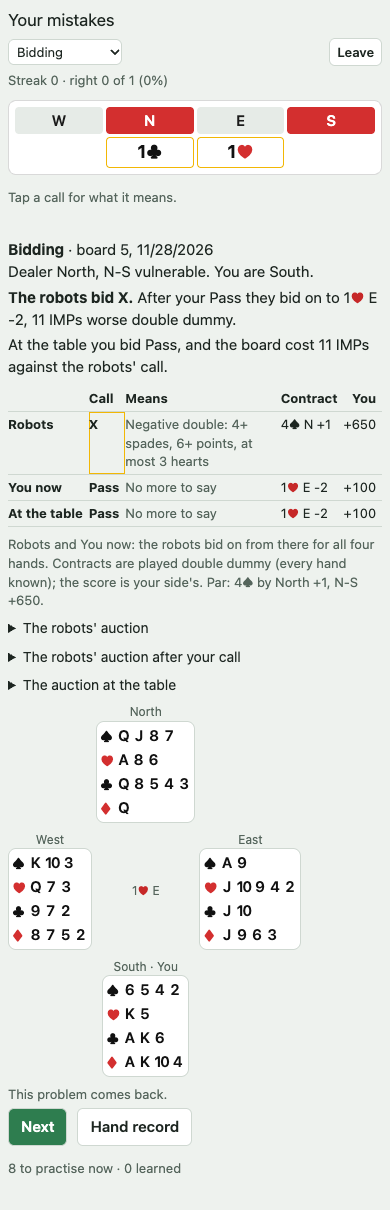
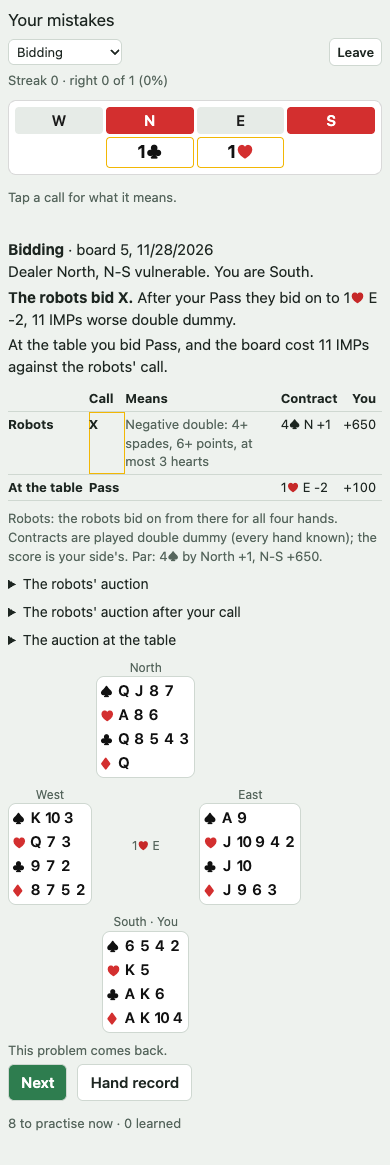
Bridge: Your mistakes bidding: the check runs while a play review runs, README section, empty meaning for a plain pass

diff --git a/bridge/js/min/drills.js b/bridge/js/min/drills.js
@@ -1,5 +1,5 @@
 // GENERATED by build.mjs from js/drills.js (comments and spacing removed). Edit js/drills.js, not this file.
-const DR={KEY:"bridge-dr",V:1,SCAN:200,MAX:400,GAP:[0,864e5,3*864e5,7*864e5],LEARNED:3,KINDS:[["all","All mistakes"],["decl","Declarer play"],["def","Defence"],["lead","Opening leads"],["bid","Bidding"]],BV:1,on:false,kind:"all",cur:null,pick:null,sol:null,solErr:false,anyway:false,scanRec:null,timer:0,w:null,url:null,idle:0,n:0,wait:new Map,noSolver:false,done:0};const drFlat=h=>{const f=[];h.tricks.forEach((tr,k)=>tr.cards.forEach((pc,j)=>f.push({...pc,trick:k,pos:j,leader:tr.leader})));return f};function drKindOf(r,pc,i){if(r.role==="declarer")return sameSide(pc.seat,r.seat)?"decl":null;if(r.role==="defender")return pc.seat===r.seat?i===0?"lead":"def":null;return null}function drExtract(r,en){const out=[];drFlat(r.h).forEach((pc,i)=>{const x=en.res[i];if(!x||!(x.loss>0))return;const kind=drKindOf(r,pc,i);if(!kind)return;out.push({k:r.id+"#"+i,rec:r.id,i,kind,card:pc.card,loss:x.loss,best:(x.best||[]).slice(),date:r.date,box:0,due:0,tries:0,right:0})});return out}function drPosition(h,i){const flat=drFlat(h),pc=flat[i],played=new Set(flat.slice(0,i).map(x=>x.card));const hands={};SEATS.forEach(s=>{hands[s]=h.hands[s].filter(c=>!played.has(c))});const trick=flat.slice(i-pc.pos,i);const led=trick.length?suitOf(trick[0].card):null,hand=hands[pc.seat];const follow=led?hand.filter(c=>suitOf(c)===led):[];const legal=follow.length?follow:hand.slice();let decl=0,def=0;h.tricks.slice(0,pc.trick).forEach(tr=>{if(tr.cards.length===4)sameSide(trickWinner(tr,h.contract.strain),h.contract.declarer)?decl++:def++});return{pc,hands,trick,legal,decl,def,mover:pc.seat,leader:pc.leader,trickNo:pc.trick}}function drGrade(it,right,now){it.tries++;if(right){it.right++;it.box=Math.min(DR.LEARNED,it.box+1);it.due=now+(DR.GAP[it.box]||0)}else{it.box=0;it.due=now}return it}const drLearned=it=>it.box>=DR.LEARNED;const drWeight=it=>it.kind==="bid"?it.loss/3:it.loss;function drQueue(items,kind,now,anyway){return items.filter(it=>!drLearned(it)&&(kind==="all"||it.kind===kind)&&(anyway||it.due<=now)).sort((a,b)=>a.box-b.box||(b.due<=now)-(a.due<=now)||drWeight(b)-drWeight(a)||b.date-a.date||a.i-b.i)}function drMerge(items,found,max){const have=new Set(items.map(it=>it.k));const out=items.concat(found.filter(it=>!have.has(it.k)));out.sort((a,b)=>b.date-a.date||a.i-b.i);return out.slice(0,max)}function drLoad(){const v=typeof Local!=="undefined"&&Local.get(DR.KEY)||{};const st={};for(const k of["n","good","streak","bestStreak"])st[k]=Number.isFinite(+(v.st||{})[k])?+v.st[k]:0;return{v:DR.V,st,items:Array.isArray(v.items)?v.items.filter(it=>it&&typeof it.k==="string"&&typeof it.rec==="string"&&Number.isInteger(it.i)):[],scanned:v.scanned&&typeof v.scanned==="object"?v.scanned:{},bscanned:v.bscanned&&typeof v.bscanned==="object"?v.bscanned:{}}}let drState=null;const drS=()=>drState||(drState=drLoad());function drSave(){const s=drS();if(typeof Stats!=="undefined"&&Stats.list.length){const ids=new Set(Stats.list.map(r=>r.id));s.items=s.items.filter(it=>ids.has(it.rec));for(const id of Object.keys(s.scanned))if(!ids.has(id))delete s.scanned[id];for(const id of Object.keys(s.bscanned))if(!ids.has(id))delete s.bscanned[id]}Local.set(DR.KEY,s)}const drRec=id=>typeof Stats!=="undefined"?Stats.list.find(r=>r.id===id):null;const drNeedsCheck=r=>(r.role==="declarer"||r.role==="defender")&&r.h&&r.h.contract&&r.h.tricks&&r.h.tricks.length>0;function drToScan(){const s=drS(),out=[];const list=Stats.list;for(let i=list.length-1;i>=0&&list.length-i<=DR.SCAN;i--){const r=list[i];if(drNeedsCheck(r)&&s.scanned[r.id]!==DR.V)out.push(r)}return out}function drStep(){if(!DR.on||document.hidden||typeof playReview!=="function")return;const s=drS();let changed=false;if(DR.scanRec){const r=DR.scanRec,en=playReview(r.h);if(!en){DR.noSolver=true;DR.scanRec=null;drRenderProgress();return}if(!en.done)return;s.items=drMerge(s.items,drExtract(r,en),DR.MAX);s.scanned[r.id]=DR.V;DR.scanRec=null;DR.done++;changed=true;if(typeof Leaks!=="undefined"&&Leaks.absorb&&Leaks.absorb(r))Stats.put(r)}if(!DR.scanRec){const next=drToScan()[0];if(next){DR.scanRec=next;if(!playReview(next.h)){DR.noSolver=true;DR.scanRec=null}}}if(drBidStep())changed=true;if(changed){drSave();if(!DR.cur)drNext(!document.activeElement||document.activeElement===document.body||drEl("drills").contains(document.activeElement));else drRenderProgress()}}function drWorker(){if(DR.w)return DR.w;const u=p=>JSON.stringify(new URL("js/"+p,location.href).href);const src=`importScripts(${u("wasm/compiled.js")}, ${u("engine.js")}, ${u("ddplay.js")});
+const DR={KEY:"bridge-dr",V:1,SCAN:200,MAX:400,GAP:[0,864e5,3*864e5,7*864e5],LEARNED:3,KINDS:[["all","All mistakes"],["decl","Declarer play"],["def","Defence"],["lead","Opening leads"],["bid","Bidding"]],BV:1,on:false,kind:"all",cur:null,pick:null,sol:null,solErr:false,anyway:false,scanRec:null,timer:0,w:null,url:null,idle:0,n:0,wait:new Map,noSolver:false,done:0};const drFlat=h=>{const f=[];h.tricks.forEach((tr,k)=>tr.cards.forEach((pc,j)=>f.push({...pc,trick:k,pos:j,leader:tr.leader})));return f};function drKindOf(r,pc,i){if(r.role==="declarer")return sameSide(pc.seat,r.seat)?"decl":null;if(r.role==="defender")return pc.seat===r.seat?i===0?"lead":"def":null;return null}function drExtract(r,en){const out=[];drFlat(r.h).forEach((pc,i)=>{const x=en.res[i];if(!x||!(x.loss>0))return;const kind=drKindOf(r,pc,i);if(!kind)return;out.push({k:r.id+"#"+i,rec:r.id,i,kind,card:pc.card,loss:x.loss,best:(x.best||[]).slice(),date:r.date,box:0,due:0,tries:0,right:0})});return out}function drPosition(h,i){const flat=drFlat(h),pc=flat[i],played=new Set(flat.slice(0,i).map(x=>x.card));const hands={};SEATS.forEach(s=>{hands[s]=h.hands[s].filter(c=>!played.has(c))});const trick=flat.slice(i-pc.pos,i);const led=trick.length?suitOf(trick[0].card):null,hand=hands[pc.seat];const follow=led?hand.filter(c=>suitOf(c)===led):[];const legal=follow.length?follow:hand.slice();let decl=0,def=0;h.tricks.slice(0,pc.trick).forEach(tr=>{if(tr.cards.length===4)sameSide(trickWinner(tr,h.contract.strain),h.contract.declarer)?decl++:def++});return{pc,hands,trick,legal,decl,def,mover:pc.seat,leader:pc.leader,trickNo:pc.trick}}function drGrade(it,right,now){it.tries++;if(right){it.right++;it.box=Math.min(DR.LEARNED,it.box+1);it.due=now+(DR.GAP[it.box]||0)}else{it.box=0;it.due=now}return it}const drLearned=it=>it.box>=DR.LEARNED;const drWeight=it=>it.kind==="bid"?it.loss/3:it.loss;function drQueue(items,kind,now,anyway){return items.filter(it=>!drLearned(it)&&(kind==="all"||it.kind===kind)&&(anyway||it.due<=now)).sort((a,b)=>a.box-b.box||(b.due<=now)-(a.due<=now)||drWeight(b)-drWeight(a)||b.date-a.date||a.i-b.i)}function drMerge(items,found,max){const have=new Set(items.map(it=>it.k));const out=items.concat(found.filter(it=>!have.has(it.k)));out.sort((a,b)=>b.date-a.date||a.i-b.i);return out.slice(0,max)}function drLoad(){const v=typeof Local!=="undefined"&&Local.get(DR.KEY)||{};const st={};for(const k of["n","good","streak","bestStreak"])st[k]=Number.isFinite(+(v.st||{})[k])?+v.st[k]:0;return{v:DR.V,st,items:Array.isArray(v.items)?v.items.filter(it=>it&&typeof it.k==="string"&&typeof it.rec==="string"&&Number.isInteger(it.i)):[],scanned:v.scanned&&typeof v.scanned==="object"?v.scanned:{},bscanned:v.bscanned&&typeof v.bscanned==="object"?v.bscanned:{}}}let drState=null;const drS=()=>drState||(drState=drLoad());function drSave(){const s=drS();if(typeof Stats!=="undefined"&&Stats.list.length){const ids=new Set(Stats.list.map(r=>r.id));s.items=s.items.filter(it=>ids.has(it.rec));for(const id of Object.keys(s.scanned))if(!ids.has(id))delete s.scanned[id];for(const id of Object.keys(s.bscanned))if(!ids.has(id))delete s.bscanned[id]}Local.set(DR.KEY,s)}const drRec=id=>typeof Stats!=="undefined"?Stats.list.find(r=>r.id===id):null;const drNeedsCheck=r=>(r.role==="declarer"||r.role==="defender")&&r.h&&r.h.contract&&r.h.tricks&&r.h.tricks.length>0;function drToScan(){const s=drS(),out=[];const list=Stats.list;for(let i=list.length-1;i>=0&&list.length-i<=DR.SCAN;i--){const r=list[i];if(drNeedsCheck(r)&&s.scanned[r.id]!==DR.V)out.push(r)}return out}function drStep(){if(!DR.on||document.hidden)return;if(drBidStep())drFound();if(typeof playReview!=="function")return;const s=drS();let changed=false;if(DR.scanRec){const r=DR.scanRec,en=playReview(r.h);if(!en){DR.noSolver=true;DR.scanRec=null;drRenderProgress();return}if(!en.done)return;s.items=drMerge(s.items,drExtract(r,en),DR.MAX);s.scanned[r.id]=DR.V;DR.scanRec=null;DR.done++;changed=true;if(typeof Leaks!=="undefined"&&Leaks.absorb&&Leaks.absorb(r))Stats.put(r)}if(!DR.scanRec){const next=drToScan()[0];if(next){DR.scanRec=next;if(!playReview(next.h)){DR.noSolver=true;DR.scanRec=null}}}if(changed)drFound()}function drFound(){drSave();if(!DR.cur)drNext(!document.activeElement||document.activeElement===document.body||drEl("drills").contains(document.activeElement));else drRenderProgress()}function drWorker(){if(DR.w)return DR.w;const u=p=>JSON.stringify(new URL("js/"+p,location.href).href);const src=`importScripts(${u("wasm/compiled.js")}, ${u("engine.js")}, ${u("ddplay.js")});
 let mod = null, solve = null;
 self.onmessage = async e => {
   const m = e.data;
@@ -19,7 +19,7 @@ self.onmessage = async e => {
     <p class="note">Tricks for ${side} in the whole board, double dummy (every hand known), after each card. ${right?`Learned after ${DR.LEARNED} right in a row.`:"This problem comes back."}</p>${btns}</div>`}function drChoose(card){const it=DR.cur;if(!it||DR.pick)return;const r=drRec(it.rec),pos=drPosition(r.h,it.i);if(!pos.legal.includes(card))return;DR.pick=card;const grade=()=>{const right=DR.sol?DR.sol[card]===Math.max(...pos.legal.filter(c=>c in DR.sol).map(c=>DR.sol[c])):it.best.includes(card);const s=drS(),live=s.items.find(x=>x.k===it.k)||it;drGrade(live,right,Date.now());s.st.n++;if(right){s.st.good++;s.st.streak++;s.st.bestStreak=Math.max(s.st.bestStreak,s.st.streak)}else s.st.streak=0;drSave()};if(DR.sol||DR.solErr){grade();drRender();drFocus();return}drRender();const wait=setInterval(()=>{if(DR.cur!==it||!DR.on){clearInterval(wait);return}if(DR.sol||DR.solErr){clearInterval(wait);grade();drRender();drFocus()}},50)}function drFocus(){const sc=drEl("drills");if(!sc||!DR.on)return;const b=sc.querySelector(DR.pick?"[data-drnext]":DR.cur?DR.cur.kind==="bid"?"#drTable .bbox button:not(:disabled)":"#drTable .rk.play":"#drInfo button")||sc.querySelector("#drKind");if(b)b.focus({preventScroll:true})}function drPlayOn(){const it=DR.cur,r=it&&drRec(it.rec);if(!r)return;leaveDrills(false);PlayFrom.start(r.h,it.i,{kind:"hist",id:r.id,seat:r.seat})}function drClick(e){const b=e.target.closest("button, [data-alert]");if(!b)return;const d=b.dataset;if(b.id==="drLeave")leaveDrills();else if(d.play)drChoose(d.play);else if(d.drlevel){DR.level=+d.drlevel;drBidBox();const f=drEl("drTable").querySelector(".bbox .st button:not(:disabled)");if(f)f.focus({preventScroll:true})}else if(d.drcall)drBidChoose(d.drcall);else if(d.drnext)drNext(true);else if(d.drany){DR.anyway=true;drNext(true)}else if(d.drplay)drPlayOn();else if(d.drrec){const it=DR.cur;if(it)Stats.record(it.rec)}else if(d.alert){if(drEl("explainPop"))hideExplain();else showExplain(b,d.alert)}else return;e.stopPropagation()}const DR_DDS=["N","E","S","W"],DR_DDST=["N","S","H","D","C"];const drDDPack=t=>DR_DDS.map(d=>DR_DDST.map(st=>(t[d][st]|0).toString(16)).join("")).join("");const drDDUnpack=p=>{const t={};DR_DDS.forEach((d,i)=>{t[d]={};DR_DDST.forEach((st,j)=>{t[d][st]=parseInt(p[i*5+j],16)})});return t};const drDDScore=(c,dd,vul)=>c?scoreNS(c,dd[c.declarer][c.strain],vul):0;const drSign=seat=>seat==="N"||seat==="S"?1:-1;const drBidNeedsCheck=r=>!!(r&&r.h&&Array.isArray(r.h.auction)&&r.h.hands&&r.h.hands[r.seat]&&r.h.hands[r.seat].length===13&&auctionOver(r.h.auction)&&r.h.auction.some(a=>a.by===r.seat));function drRobotsOn(h,auction){const au=auction.slice();while(!auctionOver(au)&&au.length<80){const by=auctionTurn(h.dealer,au),r=botCall(h.hands[by],by,h.dealer,au,h.vul);au.push(r.alert?{call:r.call,by,alert:r.alert}:{call:r.call,by})}return au}function drBidJudge(h,i,call,dd,alert){const by=h.auction[i].by,au=drRobotsOn(h,h.auction.slice(0,i).concat([alert?{call,by,alert}:{call,by}]));const c=finalContract(au);return{auction:au,contract:c,ns:drDDScore(c,dd,h.vul)}}function drBidExtract(r,dd){const h=r.h,out=[],sg=drSign(r.seat);if(!drBidNeedsCheck(r))return out;const table=drDDScore(finalContract(h.auction),dd,h.vul);h.auction.forEach((a,i)=>{if(a.by!==r.seat)return;const rb=botCall(h.hands[r.seat],r.seat,h.dealer,h.auction.slice(0,i),h.vul);if(rb.call===a.call)return;const rob=drBidJudge(h,i,rb.call,dd,rb.alert);const loss=toImps(sg*(rob.ns-table));if(loss<=0)return;if(toImps(sg*(rob.ns-drBidJudge(h,i,a.call,dd).ns))<=0)return;out.push({k:r.id+"#b"+i,rec:r.id,i,kind:"bid",card:a.call,rcall:rb.call,loss,dd:drDDPack(dd),date:r.date,box:0,due:0,tries:0,right:0})});return out}function drBidToScan(){if(typeof Stats==="undefined")return[];const s=drS(),list=Stats.list,out=[];for(let i=list.length-1;i>=0&&list.length-i<=DR.SCAN;i--){const r=list[i];if(s.bscanned[r.id]!==DR.BV&&drBidNeedsCheck(r))out.push(r)}return out}function drBidStep(){if(typeof requestDD!=="function"||typeof botCall!=="function"||DD.failed)return false;const s=drS(),t0=Date.now();let changed=false,asked=0;for(const r of drBidToScan()){const en=ddEntry(r.h.hands);if(en&&en.done){s.items=drMerge(s.items,drBidExtract(r,en.table),DR.MAX);s.bscanned[r.id]=DR.BV;changed=true;if(Date.now()-t0>40)break}else if(asked++<2)requestDD(r.h.hands,false);else break}return changed}function drBidRender(it,quiet){const info=drEl("drInfo"),tab=drEl("drTable"),box=drEl("drResult"),auc=drEl("drAuction");const r=drRec(it.rec),h=r.h,you=r.seat,before=h.auction.slice(0,it.i),d=new Date(r.date);info.innerHTML=`<p class="dr-head"><b>Bidding</b> · board ${esc(h.board)}, ${esc(d.toLocaleDateString())}${r.mode!=="practice"?` (${esc(r.mode)})`:""}<br>
     Dealer ${SEAT_NAME[h.dealer]}, ${vulText(h.vul)}. You are ${SEAT_NAME[you]}.${DR.pick?"":" <b>What do you bid?</b>"}</p>`;tab.innerHTML=DR.pick?"":`<div class="bp-hand">${bpHandHTML(h.hands[you])}</div><div class="dr-bbox"></div>`;if(!DR.pick)drBidBox();const view={seats:Object.fromEntries(SEATS.map(s=>[s,{kind:"robot"}])),auction:before,phase:DR.pick?"done":"auction"};auc.innerHTML=`<div class="dr-auc">${auctionGridHTML(view,before,h.dealer,h.vul,you)}</div><p class="note">Tap a call for what it means.</p>`;box.innerHTML=DR.pick?drBidResultHTML(it,r):"";drRenderScore();if(!quiet)drRenderProgress()}function drBidBox(){const it=DR.cur,el=drEl("drTable")&&drEl("drTable").querySelector(".dr-bbox");if(!it||!el)return;const h=drRec(it.rec).h,legal=legalCalls(h.dealer,h.auction.slice(0,it.i)),lv=DR.level;const minLevel=[1,2,3,4,5,6,7].find(l=>STRAINS.some(s=>legal.includes(l+s)));el.innerHTML=`<div class="bbox"><div class="lv">${[1,2,3,4,5,6,7].map(l=>`<button class="bcard ${lv===l?"sel":""}" data-drlevel="${l}" ${!minLevel||l<minLevel?"disabled":""}>${l}</button>`).join("")}</div>
     <div class="st">${STRAINS.map(s=>`<button class="bcard ${isRed(s)?"red":""} s-${s}" data-drcall="${lv?lv+s:""}" aria-label="${lv?lv+" ":""}${STRAIN_WORD[s]}" ${lv&&legal.includes(lv+s)?"":"disabled"}>${SYM[s]}</button>`).join("")}</div>
-    <div class="sp"><button class="bcard pass" data-drcall="P">Pass</button><button class="bcard dbl" data-drcall="X" aria-label="Double" ${legal.includes("X")?"":"disabled"}>X</button><button class="bcard rdbl" data-drcall="XX" aria-label="Redouble" ${legal.includes("XX")?"":"disabled"}>XX</button></div></div>`}function drMeans(h,i,call,alert){const by=h.auction[i].by;return describeCall(h.auction.slice(0,i).concat([alert?{call,by,alert}:{call,by}]),i,h.vul)||(call==="P"?"No more to say":"")}function drBidChoose(call){const it=DR.cur;if(!it||it.kind!=="bid"||DR.pick)return;const r=drRec(it.rec),h=r.h,i=it.i;if(!legalCalls(h.dealer,h.auction.slice(0,i)).includes(call))return;const dd=drDDUnpack(it.dd),rb=botCall(h.hands[r.seat],r.seat,h.dealer,h.auction.slice(0,i),h.vul);const ralert=rb.call===it.rcall?rb.alert:void 0;const rob=drBidJudge(h,i,it.rcall,dd,ralert),mine=call===it.rcall?rob:drBidJudge(h,i,call,dd);const diff=toImps(drSign(r.seat)*(rob.ns-mine.ns));const right=call===it.rcall||diff<=0;DR.pick=call;DR.level=null;DR.bres={rob,mine,ralert,diff,right,dd};const s=drS(),live=s.items.find(x=>x.k===it.k)||it;drGrade(live,right,Date.now());s.st.n++;if(right){s.st.good++;s.st.streak++;s.st.bestStreak=Math.max(s.st.bestStreak,s.st.streak)}else s.st.streak=0;drSave();drRender();drFocus()}function drBidResultHTML(it,r){const h=r.h,b=DR.bres,sg=drSign(r.seat),pick=DR.pick,dd=b.dd,i=it.i;const C=cl=>typeof bpCallHTML==="function"?bpCallHTML(cl):callText(cl);const imps=v=>`${v} IMP${v===1?"":"s"}`,sc=v=>(v>0?"+":"")+v;const res=c=>c?`${contractHTML(c,true)} ${resultText(c,dd[c.declarer][c.strain])}`:"Passed out";const tableC=finalContract(h.auction),tableNS=drDDScore(tableC,dd,h.vul);const head=b.right?`<p class="dr-ok"><b>Right.</b> ${pick===it.rcall?`The robots bid ${C(it.rcall)} too.`:`The robots bid ${C(it.rcall)}; with yours they reach a contract as good.`}</p>`:`<p class="dr-bad"><b>The robots bid ${C(it.rcall)}.</b> After your ${C(pick)} they bid on to ${res(b.mine.contract)}, ${imps(b.diff)} worse double dummy.</p>`;const row=(who,cl,means,c,ns,cls)=>`<tr class="${cls||""}"><td>${who}</td><td>${C(cl)}</td><td class="note">${redSym(esc(means||""))}</td><td>${res(c)}</td><td class="num">${sc(sg*ns)}</td></tr>`;const rows=[row("Robots",it.rcall,drMeans(h,i,it.rcall,b.ralert),b.rob.contract,b.rob.ns,"bp-diff")];const same=(x,y)=>(x&&x.level)===(y&&y.level)&&(x&&x.strain)===(y&&y.strain)&&(x&&x.declarer)===(y&&y.declarer)&&(x&&x.doubled)===(y&&y.doubled);if(pick!==it.rcall&&!(pick===it.card&&same(b.mine.contract,tableC)))rows.push(row("You now",pick,drMeans(h,i,pick),b.mine.contract,b.mine.ns));rows.push(row("At the table",it.card,drMeans(h,i,it.card),tableC,tableNS));const par=typeof parScore==="function"?parScore(dd,h.vul):null,o=h.other;const hand=s=>`<div><div class="lbl">${SEAT_NAME[s]}${s===r.seat?" · You":""}</div>${rowsHTML(h.hands[s],[],s)}</div>`;const grid=(au,label)=>{const v={seats:Object.fromEntries(SEATS.map(s=>[s,{kind:"robot"}])),auction:[],phase:"done"};return`<details class="dr-tricks"><summary>${label}</summary><div class="dr-auc">${auctionGridHTML(v,au.slice(),h.dealer,h.vul,r.seat)}</div></details>`};return`<div class="bp-res">${head}
+    <div class="sp"><button class="bcard pass" data-drcall="P">Pass</button><button class="bcard dbl" data-drcall="X" aria-label="Double" ${legal.includes("X")?"":"disabled"}>X</button><button class="bcard rdbl" data-drcall="XX" aria-label="Redouble" ${legal.includes("XX")?"":"disabled"}>XX</button></div></div>`}function drMeans(h,i,call,alert){const by=h.auction[i].by;return describeCall(h.auction.slice(0,i).concat([alert?{call,by,alert}:{call,by}]),i,h.vul)||""}function drBidChoose(call){const it=DR.cur;if(!it||it.kind!=="bid"||DR.pick)return;const r=drRec(it.rec),h=r.h,i=it.i;if(!legalCalls(h.dealer,h.auction.slice(0,i)).includes(call))return;const dd=drDDUnpack(it.dd),rb=botCall(h.hands[r.seat],r.seat,h.dealer,h.auction.slice(0,i),h.vul);const ralert=rb.call===it.rcall?rb.alert:void 0;const rob=drBidJudge(h,i,it.rcall,dd,ralert),mine=call===it.rcall?rob:drBidJudge(h,i,call,dd);const diff=toImps(drSign(r.seat)*(rob.ns-mine.ns));const right=call===it.rcall||diff<=0;DR.pick=call;DR.level=null;DR.bres={rob,mine,ralert,diff,right,dd};const s=drS(),live=s.items.find(x=>x.k===it.k)||it;drGrade(live,right,Date.now());s.st.n++;if(right){s.st.good++;s.st.streak++;s.st.bestStreak=Math.max(s.st.bestStreak,s.st.streak)}else s.st.streak=0;drSave();drRender();drFocus()}function drBidResultHTML(it,r){const h=r.h,b=DR.bres,sg=drSign(r.seat),pick=DR.pick,dd=b.dd,i=it.i;const C=cl=>typeof bpCallHTML==="function"?bpCallHTML(cl):callText(cl);const imps=v=>`${v} IMP${v===1?"":"s"}`,sc=v=>(v>0?"+":"")+v;const res=c=>c?`${contractHTML(c,true)} ${resultText(c,dd[c.declarer][c.strain])}`:"Passed out";const tableC=finalContract(h.auction),tableNS=drDDScore(tableC,dd,h.vul);const head=b.right?`<p class="dr-ok"><b>Right.</b> ${pick===it.rcall?`The robots bid ${C(it.rcall)} too.`:`The robots bid ${C(it.rcall)}; with yours they reach a contract as good.`}</p>`:`<p class="dr-bad"><b>The robots bid ${C(it.rcall)}.</b> After your ${C(pick)} they bid on to ${res(b.mine.contract)}, ${imps(b.diff)} worse double dummy.</p>`;const row=(who,cl,means,c,ns,cls)=>`<tr class="${cls||""}"><td>${who}</td><td>${C(cl)}</td><td class="note">${redSym(esc(means||""))}</td><td>${res(c)}</td><td class="num">${sc(sg*ns)}</td></tr>`;const rows=[row("Robots",it.rcall,drMeans(h,i,it.rcall,b.ralert),b.rob.contract,b.rob.ns,"bp-diff")];const same=(x,y)=>(x&&x.level)===(y&&y.level)&&(x&&x.strain)===(y&&y.strain)&&(x&&x.declarer)===(y&&y.declarer)&&(x&&x.doubled)===(y&&y.doubled);if(pick!==it.rcall&&!(pick===it.card&&same(b.mine.contract,tableC)))rows.push(row("You now",pick,drMeans(h,i,pick),b.mine.contract,b.mine.ns));rows.push(row("At the table",it.card,drMeans(h,i,it.card),tableC,tableNS));const par=typeof parScore==="function"?parScore(dd,h.vul):null,o=h.other;const hand=s=>`<div><div class="lbl">${SEAT_NAME[s]}${s===r.seat?" · You":""}</div>${rowsHTML(h.hands[s],[],s)}</div>`;const grid=(au,label)=>{const v={seats:Object.fromEntries(SEATS.map(s=>[s,{kind:"robot"}])),auction:[],phase:"done"};return`<details class="dr-tricks"><summary>${label}</summary><div class="dr-auc">${auctionGridHTML(v,au.slice(),h.dealer,h.vul,r.seat)}</div></details>`};return`<div class="bp-res">${head}
     <p>At the table you bid ${C(it.card)}, and the board cost ${imps(it.loss)} against the robots' call.</p>
     <table class="bp-cmp dr-bcmp"><tr><th></th><th>Call</th><th>Means</th><th>Contract</th><th class="num">You</th></tr>${rows.join("")}</table>
     <p class="note">Robots${rows.length>2?" and You now":""}: the robots bid on from there for all four hands. Contracts are played double dummy (every hand known); the score is your side's.${par?` Par: ${redSym(esc(par.text.replace(/(by \w+)([=+-])/,"$1 $2")))}, N-S ${sc(par.scoreNS)}.`:""}${o?` Robot table: ${o.contract?contractHTML(o.contract,true)+" "+resultText(o.contract,o.declTricks):"passed out"}.`:""}</p>

diff --git a/bridge/js/drills.js b/bridge/js/drills.js
@@ -112,7 +112,9 @@ function drToScan() {
   return out;
 }
 function drStep() {
-  if (!DR.on || document.hidden || typeof playReview !== 'function') return;
+  if (!DR.on || document.hidden) return;
+  if (drBidStep()) drFound(); // the bidding check goes on while a play review runs
+  if (typeof playReview !== 'function') return;
   const s = drS();
   let changed = false;
   if (DR.scanRec) {
@@ -128,9 +130,10 @@ function drStep() {
     const next = drToScan()[0];
     if (next) { DR.scanRec = next; if (!playReview(next.h)) { DR.noSolver = true; DR.scanRec = null; } }
   }
-  if (drBidStep()) changed = true;
-  if (changed) { drSave(); if (!DR.cur) drNext(!document.activeElement || document.activeElement === document.body || drEl('drills').contains(document.activeElement)); else drRenderProgress(); }
+  if (changed) drFound();
 }
+// new problems found: save, and show the first one if nothing is shown
+function drFound() { drSave(); if (!DR.cur) drNext(!document.activeElement || document.activeElement === document.body || drEl('drills').contains(document.activeElement)); else drRenderProgress(); }
 
 // ---- Solving a position for every legal card ----
 function drWorker() {
@@ -472,7 +475,7 @@ function drBidBox() {
 // what the robots' system says a call in your seat means
 function drMeans(h, i, call, alert) {
   const by = h.auction[i].by;
-  return describeCall(h.auction.slice(0, i).concat([alert ? { call, by, alert } : { call, by }]), i, h.vul) || (call === 'P' ? 'No more to say' : '');
+  return describeCall(h.auction.slice(0, i).concat([alert ? { call, by, alert } : { call, by }]), i, h.vul) || '';
 }
 function drBidChoose(call) {
   const it = DR.cur; if (!it || it.kind !== 'bid' || DR.pick) return;

diff --git a/bridge/README.md b/bridge/README.md
@@ -19,7 +19,7 @@ Play bridge with friends or robots in the browser. Up to four people play from t
 | `js/table.js` | The table itself: seats, the actions (bid, play, claim, undo…), who may see which hands. |
 | `js/par.js` | The par contract from a double-dummy table. |
 | `js/net.js` | The WebSocket connection to a table on the server (reconnects, held moves). |
-| `js/drills.js` | Your mistakes: the cards that cost you a trick in your History boards, as problems to solve again (see below). |
+| `js/drills.js` | Your mistakes: the cards and calls that cost you in your History boards, as problems to solve again (see below). |
 | `js/analysis.js` | Runs the double-dummy solver in background workers; hand-record analysis and PBN export. |
 | `js/benbridge.js` | The "Use BEN robots" option: starts the BEN worker, asks it for practice robots' calls and cards, falls back to the usual robots (see below). |
 | `ben/` | BEN robots (GPL-3.0, a separate program): the worker `ben-worker.js` and its models. The messages are in `ben/INTERFACE.md`. |
@@ -184,18 +184,20 @@ The hand analysis runs DDS (Bo Haglund and Soren Hein, Apache-2.0) compiled to W
 
 - **Flags and notes** (`js/stats.js`, Options > History and statistics): the ☆ on a row flags the board; a saved board's hand record has the flag, a short note (kept with the record in IndexedDB) and a "‹ History" button back to the list. "Flagged" filters the list. Each row shows the contract and result and the opening lead; a note shows under its row.
 - **PBN file / Print recap:** for the boards ticked after "Select", else every board the filters show. The PBN file is one `pbnBoard` per board (`js/analysis.js`), dated by the record, with the flag and note as a `{comment}`. The recap is a print-friendly page per board: diagram, auction, result and par, lead, note.
-- **Where the IMPs went** (`js/leaks.js`): over the last 20/50/100/all of the filtered boards, the IMPs lost by kind. Contract kinds compare your contract, played double dummy, with par: doubled contracts, missed slam, missed game (par is your side's making game), overbid game or slam (your game or slam fails double dummy), part-score battles (no game either way), and other (strain, sacrifices). Play kinds come from the play review (`playReview`, read-only): the tricks your cards (and dummy's, when you declare) gave away double dummy, as declarer, on defence and with your opening lead, each turned into IMPs on that board's score. Each kind links to its boards. The double-dummy tables and reviews are worked out one board at a time only while the History window is open or no table is open (the Your mistakes screen also stores them, through `Leaks.absorb`), and the review result is stored in the record (`rv`), so a board is checked once.
+- **Where the IMPs went** (`js/leaks.js`): over the last 20/50/100/all of the filtered boards, the IMPs lost by kind. Contract kinds compare your contract, played double dummy, with par: doubled contracts, missed slam, missed game (par is your side's making game), overbid game or slam (your game or slam fails double dummy), part-score battles (no game either way), and other (strain, sacrifices). Play kinds come from the play review (`playReview`, read-only): the tricks your cards (and dummy's, when you declare) gave away double dummy, as declarer, on defence and with your opening lead, each turned into IMPs on that board's score. Each kind links to its boards, and "Practise these" opens Your mistakes at the matching kind (js/drills.js). The double-dummy tables and reviews are worked out one board at a time only while the History window is open or no table is open (the Your mistakes screen also stores them, through `Leaks.absorb`), and the review result is stored in the record (`rv`), so a board is checked once.
 - **Suit symbols in chat** (`js/chatsym.js`, Options, on by default): when you send a message, whole-word tokens become symbols: `2s` → 2♠, `4h` → 4♥, `3nt`/`3n` → 3NT, `4sx` → 4♠X, `sa` → ♠A, `dk` → ♦K, `h10` → ♥10. Pairs that are also words (`ha`, `da`, `ca`, `st`, `dj`, `sk`, `ct`, `hq`, `ht`, `sq`) are converted only in capitals, and links and addresses are left alone. The chat already draws ♥/♦ in red. Client-only: the server sees text.
 
 ## Your mistakes (drills from your own boards)
 
-`js/drills.js`, from the home page ("Your mistakes") or the table's More menu. Like BBO's Bridge Master declarer problems, but the problems are your own mistakes. Every card you played that cost your side a trick double dummy becomes a problem: as declarer your cards and dummy's, on defence your cards (opening leads separately). The screen shows the position just before that card: the contract, the auction (every call explained), the tricks so far, your hand and dummy (once the lead is made); the other two hands show only their number of cards. You tap a card. The position is then solved for every legal card, and you see whether your card was the best, what it costs, the tricks each card takes for your side over the whole board (best first, equal cards together), what you played at the table, and all four hands. Next (or N), **Play on from here** (the same as the hand record's Play from here: a what-if practice table at that card), **Hand record**. Escape or Leave goes home; any table opening (the hand record's Play from here, for one) closes the screen and stops its work (a line in `showTableView`, js/app.js). After 30 s with nothing to solve the worker is closed. A menu picks all mistakes, declarer play, defence or opening leads.
+`js/drills.js`, from the home page ("Your mistakes") or the table's More menu. Like BBO's Bridge Master declarer problems, but the problems are your own mistakes. Every card you played that cost your side a trick double dummy becomes a problem: as declarer your cards and dummy's, on defence your cards (opening leads separately). The screen shows the position just before that card: the contract, the auction (every call explained), the tricks so far, your hand and dummy (once the lead is made); the other two hands show only their number of cards. You tap a card. The position is then solved for every legal card, and you see whether your card was the best, what it costs, the tricks each card takes for your side over the whole board (best first, equal cards together), what you played at the table, and all four hands. Next (or N), **Play on from here** (the same as the hand record's Play from here: a what-if practice table at that card), **Hand record**. Escape or Leave goes home; any table opening (the hand record's Play from here, for one) closes the screen and stops its work (a line in `showTableView`, js/app.js). After 30 s with nothing to solve the worker is closed. A menu picks all mistakes, declarer play, defence, opening leads or bidding.
 
 - **Finding the mistakes.** The newest 200 History boards where you declared or defended are checked one at a time with the hand record's play review (`playReview` in `js/analysis.js`, read-only), only while this screen is open; the first problem shows as soon as one board is checked (about 0.8 s after the screen opens, with a dozen new boards, on a desktop). Each board is checked once (`scanned` in localStorage). The review is also stored in the record for "Where the IMPs went" (`Leaks.absorb`), so that section has less to do later.
 - **Solving a problem.** A small worker of its own (the same few lines as the play review's worker: `wasm/compiled.js`, `engine.js`, `ddplay.js`) solves the position for every legal card when the problem is shown, so the answer is usually ready by the time you tap (one solve, about 10-50 ms). Without the solver, the answer falls back to the best cards the review found.
 - **Coming back.** A Leitner box per problem: right moves it up a box and it comes back after 1, 3 and 7 days; three right in a row and it is learned. Wrong puts it back in box 0, due at once (another problem is shown first when there is one). Order: lowest box first, then the costliest, then the newest. When nothing is due, "Practise them now" shows the waiting ones. The streak and the share right are at the top.
+- **Bidding problems** (menu: Bidding). Each call you made on the newest 200 History boards is compared with the robots' call in your seat (`botCall`, read-only), with the auction as it went. Where they differ, the robots bid on for all four hands twice, after their call and after yours, and each contract is scored double dummy (the board's DD table, `requestDD`, asked for two boards at a time while the screen is open). The call is a problem when the robots' call does better both ways: against the contract you reached, and with the robots bidding on after your call (so a partner's later slip isn't counted as yours). The loss is in IMPs; in the queue a bidding problem's IMPs weigh a third of a trick. The problem: "What do you bid?", your hand, the auction so far ending in "?" (every call can be tapped for its meaning), and a bidding box with the legal calls. Right is the robots' call, or a call after which the robots reach a contract as good. The answer shows the robots' call, yours and the table's, each with its meaning, contract and your side's score double dummy, then par, the robot table's result, the three auctions, all four hands, Next and Hand record. Checking one board takes about 1 ms. The DD table is kept with the problem (20 hex digits), so answers need no solver; boards whose calls were checked are in `bscanned`.
+- **Practise these.** Each row of History's "Where the IMPs went" has a link that opens this screen at the matching kind: contract rows at Bidding, declarer, defence and lead rows at theirs.
 - **Kept in this browser:** `bridge-dr` in localStorage (problems, boxes, which boards were checked, the score; up to 400 problems, newest boards first); problems of boards no longer in History are dropped. `bridge-dr-kind` keeps the menu choice.
-- **Tests.** `node tests/drilltest.js` (300 random boards: which cards become problems and of which kind, the position before each card against the engine's legal plays and trick count, the boxes, the queue, merging). `NODE_PATH=<playwright-core dir> node tests/drills.pw.mjs [--shots=dir]` in Chrome at 390 and 1280 px.
+- **Tests.** `node tests/drilltest.js` (300 random boards: which cards become problems and of which kind, the position before each card against the engine's legal plays and trick count, the boxes, the queue, merging). `NODE_PATH=<playwright-core dir> node tests/drills.pw.mjs [--shots=dir]` in Chrome at 390 and 1280 px. Bidding: `node tests/drillbidtest.js [boards] [--cache=$TMPDIR/bridge-dd-<seed>.json]` (robot-bid boards with slips in one seat: problems only at your calls unlike the robots', each loss recomputed) and `tests/drillbid.pw.mjs` (from "Practise these" to a right and a wrong answer).
 
 ## Bidding explorer and "What do you bid?"
 

diff --git a/HANDOFF-r16-feat18.md b/HANDOFF-r16-feat18.md
@@ -2,7 +2,7 @@
 
 ## Resume here
 - Status: working, committed on `r16-feat18` (based on `r16-feat17`). `npm test` passes, sim shows errors 0 and long 0, `node tests/drillbidtest.js` and `node tests/drilltest.js` pass, `tests/drillbid.pw.mjs` passes at 390 and 1280.
-- Half done: nothing. Next steps: (1) README section for the Bidding kind, (2) rerun feat17's `tests/drills.pw.mjs` to confirm nothing broke, (3) at merge add `['drilltest.js'], ['drillbidtest.js']` to `TESTS` in `tests/all.js`.
+- Half done: nothing. README has the Bidding section; feat17's `tests/drills.pw.mjs` still passes (27 checks at each width). Next steps: (1) at merge add `['drilltest.js'], ['drillbidtest.js']` to `TESTS` in `tests/all.js`.
 - Key numbers: checking one board's calls takes about 1.2 ms (node, 1,000 boards with real DD tables). With a human-like slip on about half the boards, 531 problems came from 1,000 boards.
 
 ## What it does
